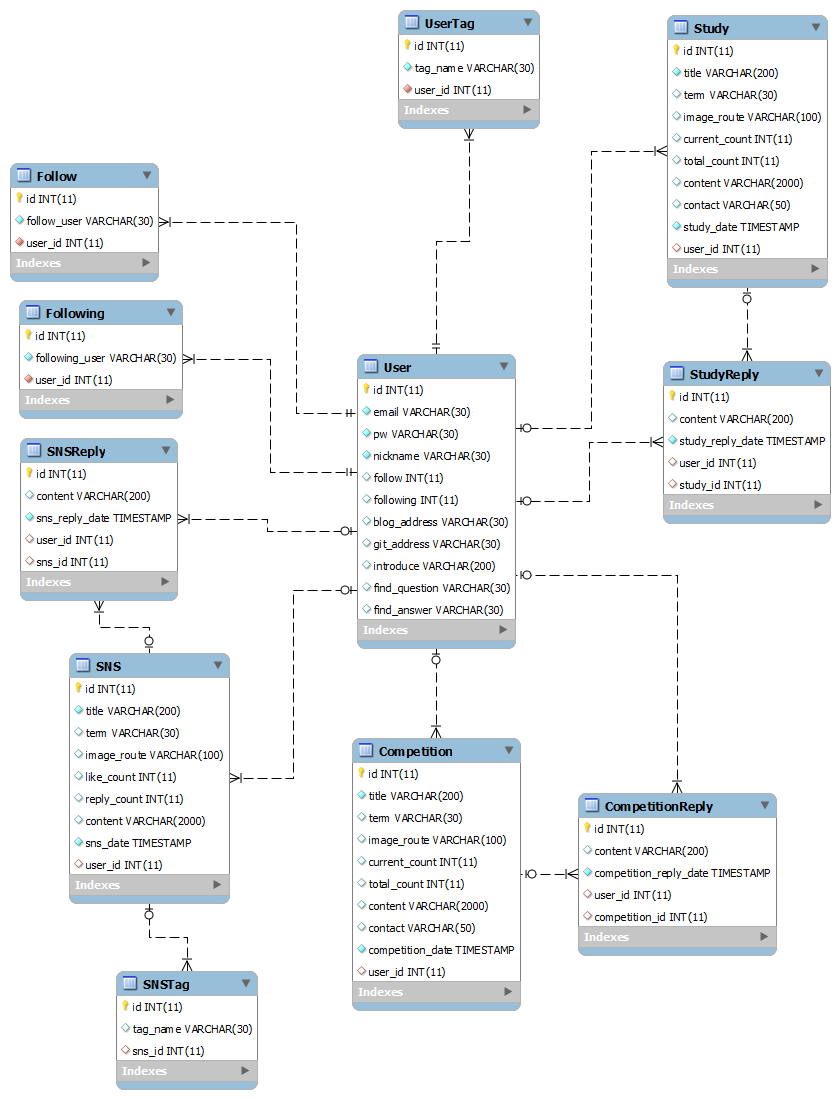
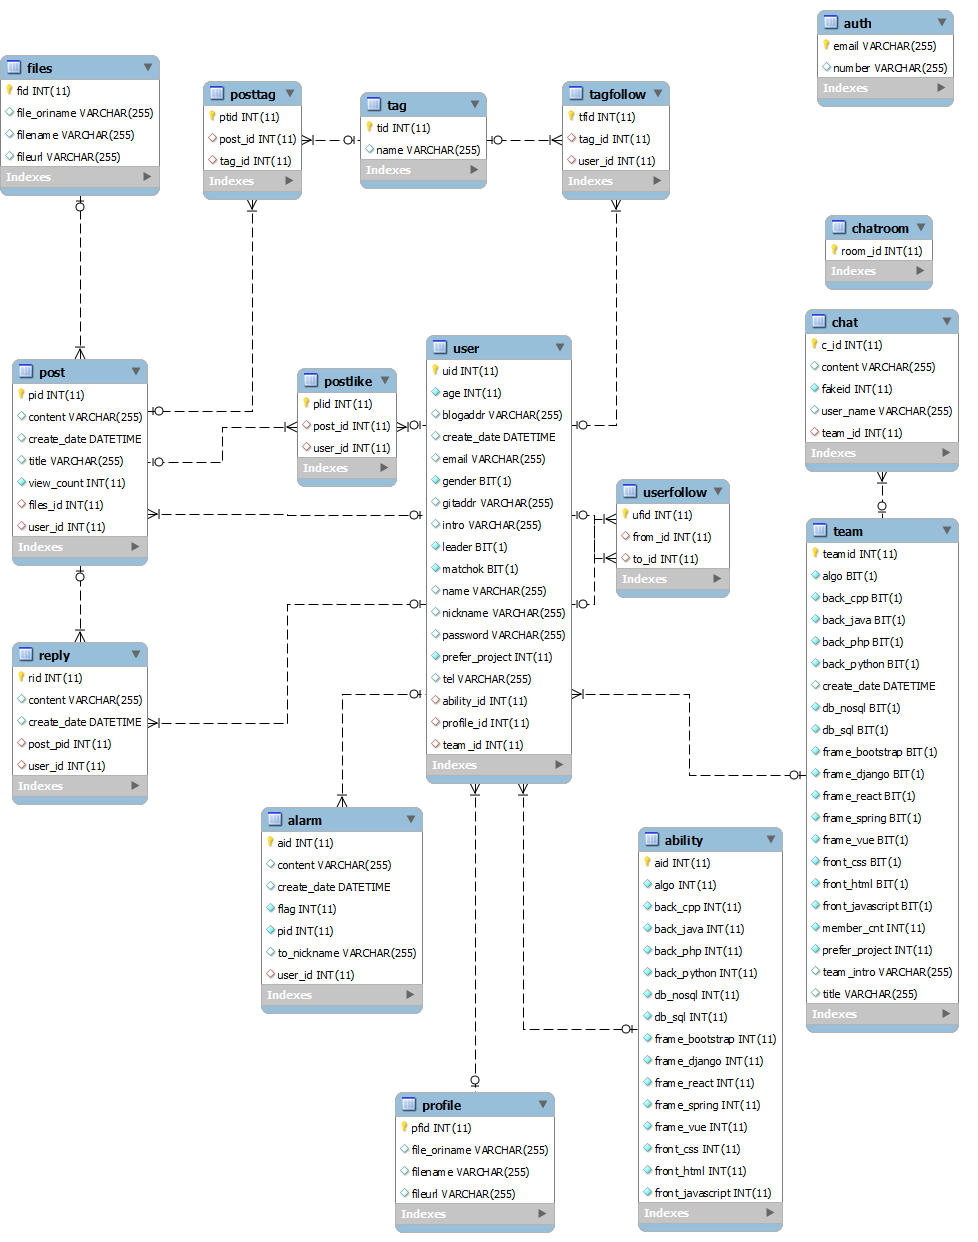
README - frontend

diff --git a/document/frontend/Team_Construction.md b/document/frontend/Team_Construction.md
@@ -1,0 +1,109 @@
+# Team
+
+## Construction
+
+![team_construction](../images/team_construction.png)
+
+![team_construction2](../images/team_construction2.png)
+
+## File Definition
+
+### :black_medium_square: src/views
+
+| File 이름  | 기술                                    |
+| ---------- | --------------------------------------- |
+| `Main.vue` | 사용자의 프로젝트 팀 화면을 정의합니다. |
+
+### :black_medium_square: src/views/team
+
+| File 이름         | 기술                                           |
+| ----------------- | ---------------------------------------------- |
+| `createTeam.vue`  | 프로젝트 팀 생성 페이지를 정의합니다.          |
+| `MatchMember.vue` | 매칭된 유저들을 보여주는 페이지를 정의합니다.. |
+| `subjectForm.vue` | 주제 선택 페이지를 정의합니다.                 |
+| `TeamInfo.vue`    | 팀 정보 확인 페이지를 정의합니다.              |
+| `teamMatch.vue`   | 팀원 매칭을 위한 페이지를 정의합니다.          |
+
+### :black_medium_square: src/components/team
+
+| File 이름            | 기술                                                         |
+| -------------------- | ------------------------------------------------------------ |
+| `MatchUser.vue`      | 매칭 결과 팀원 component를 정의합니다.                       |
+| `MatchUserSmall.vue` | 매칭 결과 팀원 모습만 보여주는 component를 정의합니다.       |
+| `memberImg.vue`      | 프로젝트 화면의 팀 멤버 component를 정의합니다.              |
+| `NoTeam.vue`         | 팀원으로 시작한 경우 화면을 정의합니다.                      |
+| `Specification.vue`  | 프로젝트 명세서 component를 정의합니다.                      |
+| `TeamIn.vue`         | 팀이 있는 경우 화면을 정의합니다.                            |
+| `TeamOut.vue`        | 팀이 없는 경우 화면을 정의합니다.                            |
+| `TeamUser.vue`       | 팀원으로 시작한 경우 해당 주제의 팀을 출력하기 위한 component를 정의합니다. |
+
+
+
+## Code
+
+#### `Main.vue`
+
+> 프로젝트 팀의 **최상단 페이지**로 사용자의 정보를 받아
+>
+> - 팀이 있는지(`TeamIn.vue`) 
+> - 팀이 없다면 
+>   - 팀원 등록을 했는지(`NoTeam.vue`)
+>   - 아무것도 하지 않은 상태인지 (`TeamOut.vue`)
+>
+> 를 판단 후 각 경우에 적합한 화면을 출력한다.
+
+##### 0. 사용자 판별
+
+- 사용자 정보를 담아 axios 요청(`get방식`)을 보낸 후 받은 데이터에서 두 개의 변수를 통해 팀 여부(`T/F`)와 등록 여부(`T/F`)를 판별한다.
+  - 팀 여부(`T`)시 팀이 존재(`TeamIn.vue`)
+  - 팀 여부(`F`)시 등록 여부(`T`)라면 팀원 등록 상태(`NoTeam.vue`)
+  - 팀 여부(`F`) & 등록 여부(`F`)라면 미등록 상태(`TeamOut.vue`)
+
+##### 1. 팀이 있는 경우
+
+- `Main.vue`의 화면에서 `TeamIn.vue` 컴포넌트를 출력한다.
+- 3개의 Tab으로 각각 **팀 정보 / 명세서 / 설정** 으로 구성되어 있다.
+- 받아온 팀 관련 데이터를 통해 팀 정보(`memberImg.vue` 등의 컴포넌트)와 명세서(`Specification.vue` 컴포넌트)를 출력한다.
+- 설정에서는 실시간채팅(`Chat.vue`)으로 이동하거나 명세서 수정(`createTeam.vue`) 또는 팀 탈퇴 or 프로젝트 종료(둘 다`axios - delete`)가 가능하다.
+- 팀장의 경우 **팀원 매칭**(`TeamMatch.vue`)으로 이동 가능하다.
+
+##### 2. 팀원 등록 상태
+
+- `Main.vue`의 화면에서 `NoTeam.vue` 컴포넌트를 출력한다.
+- 등록한 주제와 함께 해당 주제를 선택한 팀 리스트(`TeamUser.vue` 컴포넌트)를 출력한다.
+- 클릭 시 해당 팀 명세서 페이지(`TeamInfo.vue`)로 이동할 수 있다.
+- 프로젝트 팀에게 **팀원 가입 요청**이 **가능**하다.
+
+##### 3. 미등록 상태
+
+- `Main.vue`의 화면에서 `TeamOut.vue` 컴포넌트를 출력한다.
+- 해당 컴포넌트에서는 **팀장으로 시작 / 팀원으로 시작** 이 가능하다.
+  - 팀원으로 시작 시 `subjectForm.vue` 입력 후 바로 `Main.vue`로 이동하며 **2. 팀원 등록 상태**가 된다.
+  - 팀장으로 시작 시 `subjectForm.vue` 후 `createTeam.vue`를 통해 팀을 생성한 후 `Main.vue`로 이동하며 **1. 팀이 있는 경우**가 된다.
+
+
+
+#### `teamMatch.vue`
+
+> 프로젝트 팀의 팀장만이 접근 가능한 페이지로 프로젝트 명세서에 따라 프로젝트에 어울리는 팀원을 매칭하여 추천한다.
+
+- 페이지 접근 시(`created`) 로딩 화면이 5초 진행된다.
+- 팀 정보(팀장 닉네임)를 넣어 axios 요청(get방식)을 보내면 Backend에서 알고리즘을 통해 *같은 주제 5명, 다른 주제 5명*으로 **최대 10명**까지 유저를 **추천** 받을 수 있다.
+- 매칭된 유저는 `MatchUserSmall.vue`를 통해 프로필 사진과 닉네임만 확인되며, 자세히 보기 클릭 시 `MatchMember.vue` 페이지로 이동한다.
+
+
+
+#### `MatchMember.vue`
+
+> `teamMatch.vue`에서 추천 받은 유저 데이터를 출력해주는 페이지이다.
+
+- 2개의 Tab으로 **같은 주제 / 다른 주제**의 추천 받은 유저를 확인할 수 있다.
+  - 같은 주제의 유저는 프로필 확인 및 팀원 요청이 가능하다.
+  - 다른 주제의 유저는 위 2가지 + 프로젝트 적합도 %를 확인할 수 있다.
+
+
+
+## Reference
+
+- stack overflow
+- loading animation html

diff --git a/document/frontend/Chat_Construction.md b/document/frontend/Chat_Construction.md
@@ -1,0 +1,87 @@
+# Chat
+
+## Construction
+
+![chat_construction](../images/chat_construction.png)
+
+## File Definition
+
+### :black_medium_square: src/views/chat
+
+| File 이름  | 기술                             |
+| ---------- | -------------------------------- |
+| `Chat.vue` | 실시간 채팅 페이지를 정의합니다. |
+
+### :black_medium_square: src/components/chat
+
+| File 이름       | 기술                                                         |
+| --------------- | ------------------------------------------------------------ |
+| `chatMe.vue`    | 실시간 채팅에서 내 채팅 부분의 component를 정의합니다.       |
+| `chatOther.vue` | 실시간 채팅에서 다른 유저의 채팅 부분을 component를 정의합니다. |
+
+
+
+## Code
+
+#### `Chat.vue`
+
+> 실시간 채팅 페이지를 출력한다.
+
+- 채팅 창 진입 시 채팅방 내용을 가져오기 위해 axios 요청(`get방식`)을 한다.
+
+- 채팅 방 진입 시 소켓 연결을 한다.
+
+  ```javascript
+  connect() {
+        const serverURL= "서버주소"
+        let socket = new SockJS(serverURL);
+        this.stompClient = Stomp.over(socket);
+        // console.log(`소켓 연결을 시도합니다. 서버 주소: ${serverURL}`)
+        this.stompClient.connect(
+          {},
+          frame => {
+            // 소켓 연결 성공
+            this.connected = true;
+            // console.log('소켓 연결 성공', frame);
+            // 서버의 메시지 전송 endpoint를 구독합니다.
+            // 이런형태를 pub sub 구조라고 합니다.
+            // console.log(this.teamId)
+            this.stompClient.subscribe("/subscribe/chat/"+this.teamId, res => {
+              // console.log('구독으로 받은 메시지 입니다.', res.body);
+  ㅇ
+              // 받은 데이터를 json으로 파싱하고 리스트에 넣어줍니다.
+              // console.log(JSON.parse(res.body));
+              this.recvList.push(JSON.parse(res.body))
+              this.scrolltoBottom()
+            });
+          },
+          error => {
+            // 소켓 연결 실패
+            // console.log('소켓 연결 실패', error);
+            this.connected = false;
+          }
+        );        
+      },
+  ```
+
+- 메시지 전송은 아래와 같이 이루어진다.
+
+  ```javascript
+  send() {
+        // console.log("Send message:" + this.message);
+        if (this.stompClient && this.stompClient.connected) {
+          const msg = { 
+            userName: storage.NickName,
+            content: this.message,
+            fakeid: this.teamId,
+          };
+          this.stompClient.send("/publish/chat/message",JSON.stringify(msg),{});
+            // json 형식으로 serializer(stringify)해서 입력한 메시지를 보낸다.
+        }
+      },
+  ```
+
+  
+
+## Reference
+

diff --git a/document/frontend/Frontend_Construction.md b/document/frontend/Frontend_Construction.md
@@ -124,6 +124,8 @@ FRONTEND/
 
 - **src/components/chat**
 
+  > [실시간채팅 파일 정의](./Chat_Construction.md/#file-definition)
+
   | File 이름       | 기술                                                         |
   | --------------- | ------------------------------------------------------------ |
   | `chatMe.vue`    | 실시간 채팅에서 내 채팅 부분의 component를 정의합니다.       |
@@ -138,7 +140,7 @@ FRONTEND/
 
 - **src/components/notice**
 
-  > [알림 페이지 파일 정의](./Alarm_Construction.md/#file-definition)
+  > [알림 파일 정의](./Alarm_Construction.md/#file-definition)
 
   | File 이름       | 기술                                             |
   | --------------- | ------------------------------------------------ |
@@ -147,7 +149,7 @@ FRONTEND/
 
 - **src/components/search**
 
-  > [검색 페이지 파일 정의](./Search_Construction.md/#file-definition)
+  > [검색 파일 정의](./Search_Construction.md/#file-definition)
 
   | File 이름            | 기술                                          |
   | -------------------- | --------------------------------------------- |
@@ -166,6 +168,8 @@ FRONTEND/
   | `SNSItem.vue`        | 뉴스피드에 들어갈 게시물 component를 정의합니다.           |
 
 - **src/components/team**
+
+  > [팀 파일 구조](./Team_Construction.md/#file-definition)
 
   | File 이름            | 기술                                                         |
   | -------------------- | ------------------------------------------------------------ |
@@ -204,6 +208,8 @@ FRONTEND/
 
 - **src/views/chat**
 
+  > [실시간채팅 페이지 구조](./Chat_Construction.md/#construction)
+
   | File 이름  | 기술                             |
   | ---------- | -------------------------------- |
   | `Chat.vue` | 실시간 채팅 페이지를 정의합니다. |
@@ -228,6 +234,8 @@ FRONTEND/
   | `IndexFeed.vue`  | 뉴스피드를 위한 페이지를 정의합니다.            |
 
 - **src/views/team**
+
+  > [팀 페이지 구조](./Team_Construction.md/#construction)
 
   | File 이름         | 기술                                           |
   | ----------------- | ---------------------------------------------- |
@@ -269,8 +277,9 @@ FRONTEND/
 - [유저 로그인 & 회원가입 구조](./User(Login_Join)_Construction.md/#construction)
 - [유저 프로필 구조](./User(profile)_Construction.md/#construction)
 - [알림 페이지 구조](./Alarm_Construction.md/#construction)
-- [팀 페이지 구조]
+- [팀 페이지 구조](./Team_Construction.md/#construction)
 - [검색 페이지 구조](./Search_Construction.md/#construction)
+- [실시간채팅 페이지 구조](./Chat_Construction.md/#construction)
 
 
 

diff --git a/Readme.md b/Readme.md
@@ -56,8 +56,8 @@ PJT/
 ## 의존성
 
 - 해당 프로젝트는 **Backend**와 **Frontend**로 분리되어 있습니다.
-- **Backend**는 `Spring framework`를 통해 `Java`로 작성되었습니다.
-- **Frontend**는 `vue.js`를 통해 `javascript`와 `html/css`를 통해 작성되었습니다.
+- **Backend**는 `Spring framework`를 사용해 `Java`로 작성되었습니다.
+- **Frontend**는 `vue.js`를 사용해 `javascript`와 `html/css`로 작성되었습니다.
 
 
 
@@ -75,10 +75,13 @@ PJT/
 | frontend/     | frontend 관련 md 파일들을 정의합니다.              |
 | DB/           | Database 관련 파일들이 저장됩니다.                 |
 | document/     | README를 비롯한 프로젝트 관련 파일들이 저장됩니다. |
+| Chat_Backend/ | 실시간채팅 관련 파일들이 저장됩니다.               |
 
 
 
 ## wireFrame
+
+### [1차] 와이어 프레임
 
 ![wireFrame](./document/images/wireframe.png)
 

diff --git a/document/frontend/SNSFeed_Construction.md b/document/frontend/SNSFeed_Construction.md
@@ -43,11 +43,27 @@
 
 - 받아온 data는 출력을 위해 `SNSItem.vue`로 내려준다.
   
-- `v-for`를 사용해 하나씩 내려줌
-  
 - `SNSItem.vue`에서 선택된 해시태그를 받아온다.
 
   - 받아온 해시태그는 `clicktags`라는 data안에 저장되어 출력한다.
+  
+- 해시태그 선택 시 axios 요청을 보내 해당 태그가 들어간 피드 목록을 받아온다.
+
+  - get방식
+
+    - :star: get 방식으로 요청을 보낼 때 params의 List 객체를 아래와 같이 적어서 보낸다.
+
+    ```javascript
+    http
+    .get(`/post/hash/${storage.getItem("NickName")}/${this.limit}`, {
+        params: {
+            hashtag: this.clicktags + ''
+        }
+    })
+    ```
+
+    - vue에서는 `+ ''` 을 통해 List 객체를 처리(?)하는 것 같다. (서버단 X. vue에서의 처리 문제)
+      - ~~serializer 등의 방식으로는 해결되지 않았다.~~
 
 
 

diff --git a/document/frontend/Search_Construction.md b/document/frontend/Search_Construction.md
@@ -13,7 +13,7 @@
 | `SearchMain.vue` | 검색 페이지를 정의합니다.     |
 | `TagResult.vue`  | Tag 결과 페이지를 정의합니다. |
 
-### :black_medium_square: src/components/notice
+### :black_medium_square: src/components/search
 
 | File 이름            | 기술                                          |
 | -------------------- | --------------------------------------------- |
